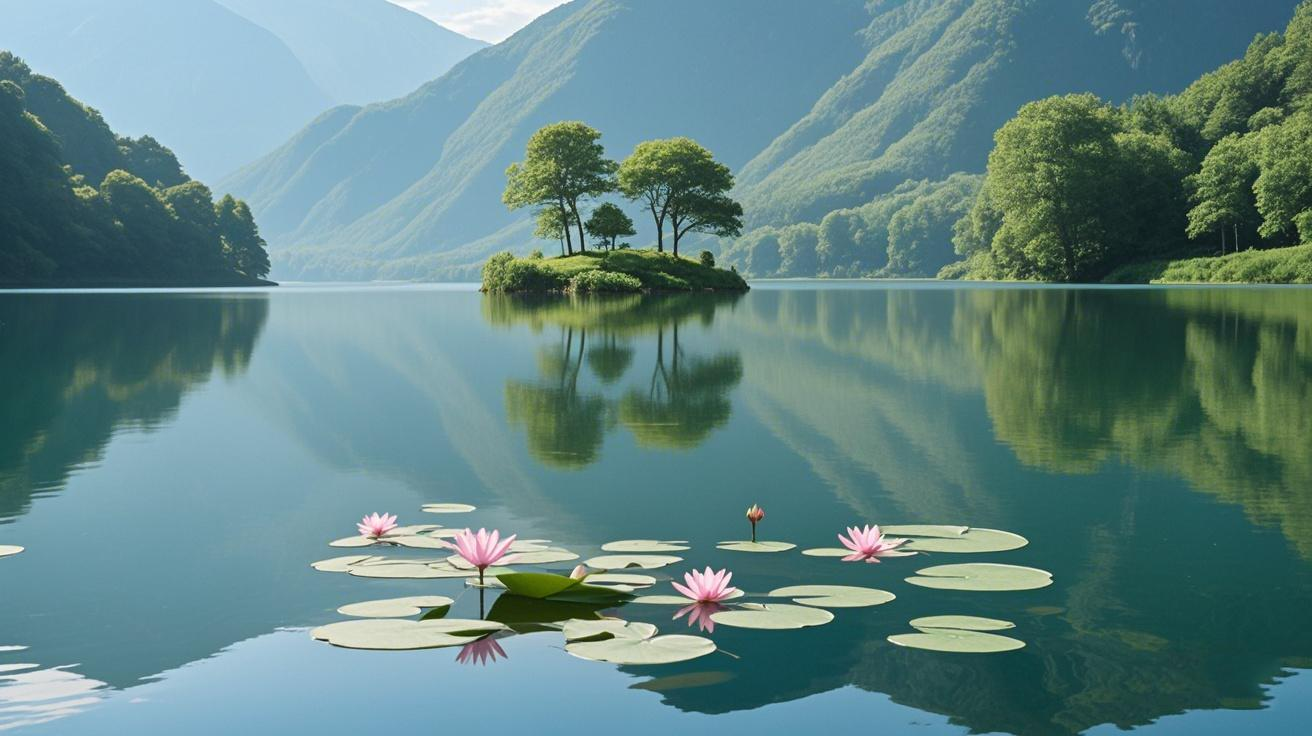
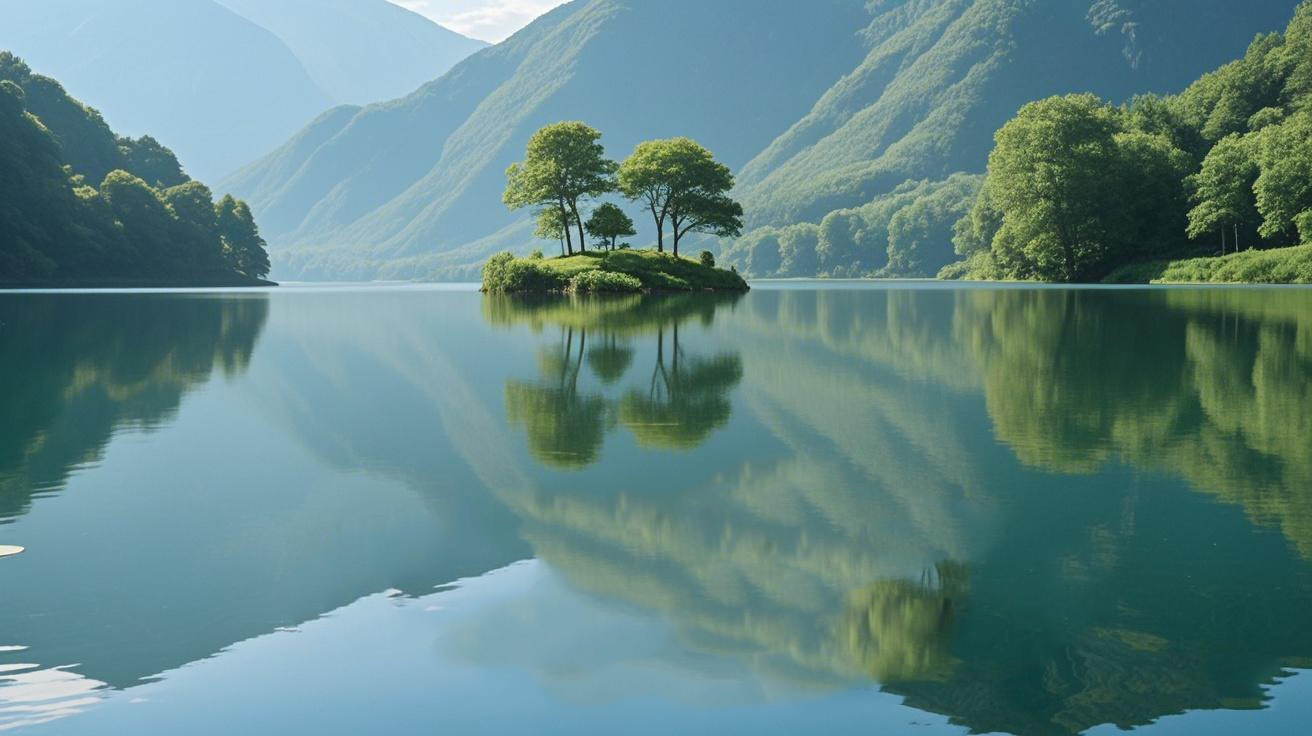
readme增加图片

Changed region(s): [[0.2188, 0.625, 0.8125, 0.9688], [0.8125, 0.8438, 0.8438, 0.875]]

diff --git a/README.md b/README.md
@@ -6,6 +6,8 @@
 
 对操作体验进行了特别优化，特别是大图、长图的使用体验。
 
+![PicSee 界面预览](res/desc.jpg)
+
 ## 功能特性
 
 - **四种浏览模式**（右键菜单或状态栏切换，`Alt+B/N/M/X`）
